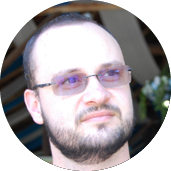
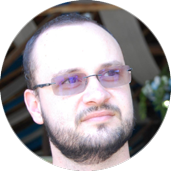
Adding the missing members on the About Us. / Fixing the edges of the images.

diff --git a/about-us.html b/about-us.html
@@ -97,7 +97,15 @@
 						</div>
 					</div>
 
-					<div class="col-sm-4 bio_box bio_boxr">
+					<div class="col-sm-4 bio_box">
+						<img src="img/ale.png" alt="">
+						<div class="info">
+							<p class="name">Alexandre Sehnem</p>
+							<p class="area">???</p>
+						</div>
+					</div>
+
+					<div class="col-sm-4 bio_box ">
 						<img src="img/team/cesar.png" alt="">
 						<div class="info">
 							<p class="name">Cesar Selonke</p>
@@ -105,6 +113,8 @@
 						</div>
 					</div>
 
+				</div>
+				<div class="row row1">
 					<div class="col-sm-4 bio_box">
 						<img src="img/team/douglas.png" alt="">
 						<div class="info">
@@ -112,23 +122,32 @@
 							<p class="area">???</p>
 						</div>
 					</div>
-				</div>
-				<div class="row row1">
-					<div class="col-sm-4 bio_box bio_boxr">
-						<img src="img/team/fellipe.png" alt="">
+					
+					<div class="col-sm-4 bio_box">
+						<img src="img/ale.png" alt="">
 						<div class="info">
-							<p class="name">Fellipe Augusto</p>
+							<p class="name">Edina Melleis</p>
 							<p class="area">???</p>
 						</div>
 					</div>
-					<div class="col-sm-4 bio_box bio_boxr">
+
+					<div class="col-sm-4 bio_box">
 						<img src="img/team/lutz.png" alt="">
 						<div class="info">
 							<p class="name">Felipe Lutz</p>
 							<p class="area">???</p>
 						</div>
 					</div>
+				</div>
 
+				<div class="row row1">
+					<div class="col-sm-4 bio_box ">
+						<img src="img/team/fellipe.png" alt="">
+						<div class="info">
+							<p class="name">Fellipe Augusto</p>
+							<p class="area">???</p>
+						</div>
+					</div>
 					<div class="col-sm-4 bio_box">
 						<img src="img/team/jackson.png" alt="">
 						<div class="info">
@@ -136,16 +155,15 @@
 							<p class="area">???</p>
 						</div>
 					</div>
-				</div>
-
-				<div class="row row1">
-					<div class="col-sm-4 bio_box bio_boxr">
+					<div class="col-sm-4 bio_box ">
 						<img src="img/team/kleison.png" alt="">
 						<div class="info">
 							<p class="name">Kleison Schuelter</p>
 							<p class="area">???</p>
 						</div>
 					</div>
+				</div>
+				<div class="row row1">
 					<div class="col-sm-4 bio_box">
 						<img src="img/team/miere.png" alt="">
 						<div class="info">
@@ -153,34 +171,34 @@
 							<p class="area">???</p>
 						</div>
 					</div>
-					<div class="col-sm-4 bio_box bio_boxr">
+					<div class="col-sm-4 bio_box ">
 						<img src="img/team/podewa.png" alt="">
 						<div class="info">
 							<p class="name">Rafael Podewils</p>
+							<p class="area">???</p>
+						</div>
+					</div>
+					<div class="col-sm-4 bio_box">
+						<img src="img/ale.png" alt="">
+						<div class="info">
+							<p class="name">Ronei Gebert</p>
 							<p class="area">???</p>
 						</div>
 					</div>
 				</div>
 				<div class="row row1">
-					<div class="col-sm-4 bio_box bio_boxr">
-						<img src="img/team/kleison.png" alt="">
+					<div class="col-sm-4 bio_box ">
+						<img src="img/ale.png" alt="">
 						<div class="info">
-							<p class="name">Kleison Schuelter</p>
+							<p class="name">Rosnei Bortolatto</p>
 							<p class="area">???</p>
 						</div>
 					</div>
-					<div class="col-sm-4 bio_box">
-						<img src="img/team/miere.png" alt="">
+					<div class="col-sm-4 bio_box ">
+						<img src="img/team/regis.png" alt="">
 						<div class="info">
-							<p class="name">Miere Teixeira</p>
+							<p class="name">Régis Gregol</p>
 							<p class="area">???</p>
-						</div>
-					</div>
-					<div class="col-sm-4 bio_box bio_boxr">
-						<img src="img/team/podewa.png" alt="">
-						<div class="info">
-							<p class="name">Rafael Podewils</p>
-							<p class="area">Paranauê Master</p>
 						</div>
 					</div>
 				</div>

diff --git a/css/compiled/about.css b/css/compiled/about.css
@@ -45,12 +45,10 @@
     #team .people .row1 {
       margin: 0 0 50px 0; }
     #team .people .bio_box {
-      margin: 0; }
-      #team .people .bio_box img {
-        float: left; }
-      #team .people .bio_box .info {
-        float: left;
-        margin: 38px 0 0 22px; }
+      margin: 0;
+	  text-align: center}      
+      #team .people .bio_box .info {        
+        margin: 38px 0 0 0px; }
         #team .people .bio_box .info p {
           margin-bottom: 0; }
           #team .people .bio_box .info p.name {
